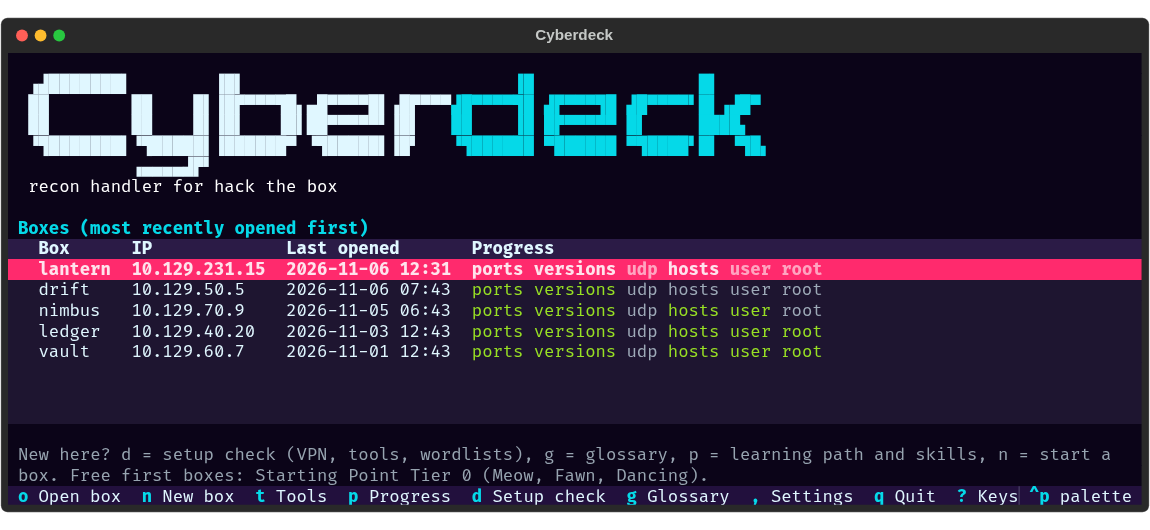
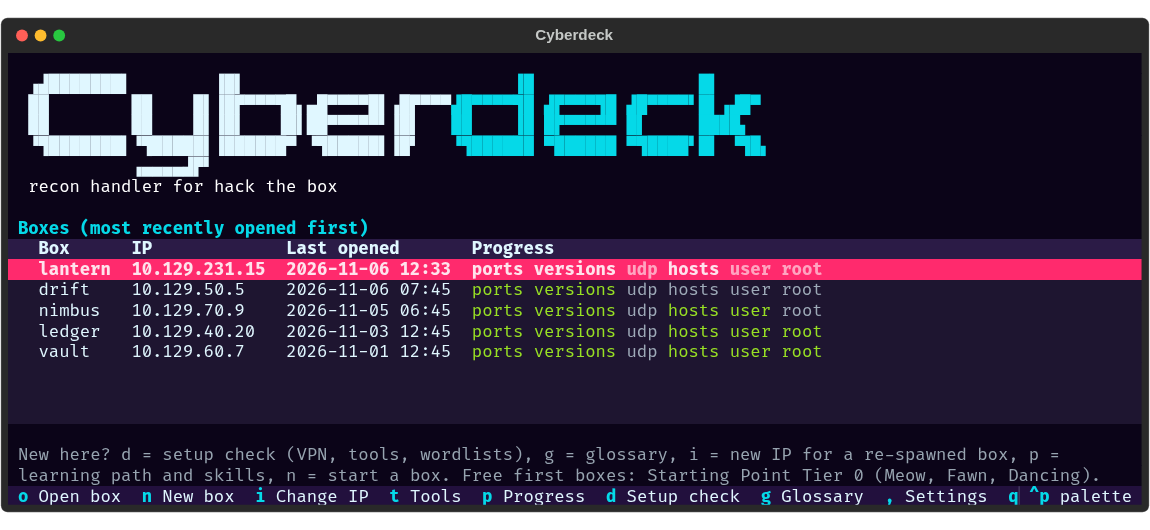
Box list: i changes a box's IP (HTB re-spawn), offers to move its hosts line
Scope-checked via services.set_ip, noted in notes.md, findings kept. If the
box has a tagged /etc/hosts line, opens the box and runs the usual hosts
flow (diff, confirm, sudo). README, docs/UI.md and tests updated.

Source-Commit: 5020ff499f2519ac6bfe21423267c33271aadc49

Changed region(s): [[0.0, 0.8453, 0.9739, 0.966]]

diff --git a/src/cyberdeck/ui/tui/menu.py b/src/cyberdeck/ui/tui/menu.py
@@ -19,7 +19,7 @@ from cyberdeck.core.scope import ScopeError
 from cyberdeck.core.userconfig import load_user_config
 from cyberdeck.core.workspace import Workspace, WorkspaceError
 from cyberdeck.ui.banner import logo_markup
-from cyberdeck.ui.tui.modals import ConfirmModal
+from cyberdeck.ui.tui.modals import ConfirmModal, InputModal
 
 _SHORT = ["ports", "versions", "udp", "hosts", "user", "root"]
 
@@ -81,6 +81,7 @@ class MenuScreen(Screen[None]):
     BINDINGS = [
         Binding("enter,o", "open", "Open box"),
         Binding("n", "new", "New box"),
+        Binding("i", "set_ip", "Change IP"),
         Binding("t", "tools", "Tools"),
         Binding("p", "progress", "Progress"),
         Binding("d", "app.setup_check", "Setup check"),
@@ -109,6 +110,7 @@ class MenuScreen(Screen[None]):
         yield Static(
             Text(
                 "New here? d = setup check (VPN, tools, wordlists), g = glossary, "
+                "i = new IP for a re-spawned box, "
                 "p = learning path and skills, n = start a box. Free first boxes: Starting "
                 "Point Tier 0 (Meow, Fawn, Dancing).",
                 style="dim",
@@ -163,15 +165,23 @@ class MenuScreen(Screen[None]):
     def _selected(self) -> None:
         self.action_open()
 
-    def action_open(self) -> None:
+    def _highlighted(self) -> Workspace | None:
         table: DataTable[Any] = self.query_one("#boxes", DataTable)
         if not table.row_count:
+            return None
+        key = str(table.coordinate_to_cell_key(table.cursor_coordinate).row_key.value)
+        return self._boxes[key]
+
+    def action_open(self) -> None:
+        ws = self._highlighted()
+        if ws is None:
             self.action_new()
             return
-        key = str(table.coordinate_to_cell_key(table.cursor_coordinate).row_key.value)
-        self.open_box(self._boxes[key])
+        self.open_box(ws)
 
-    def open_box(self, ws: Workspace, *, offer_scan: bool = False) -> None:
+    def open_box(
+        self, ws: Workspace, *, offer_scan: bool = False, move_hosts: bool = False
+    ) -> None:
         from cyberdeck.ui.tui.dashboard import DashboardScreen
 
         opened = services.open_target(self.settings, str(ws.path))
@@ -180,6 +190,45 @@ class MenuScreen(Screen[None]):
         self.app.push_screen(dashboard)
         if offer_scan:
             dashboard.call_after_refresh(dashboard.action_scan)
+        if move_hosts:
+            dashboard.call_after_refresh(dashboard.action_hosts)
+
+    @work
+    async def action_set_ip(self) -> None:
+        """HTB gives a re-spawned box a new IP: update it here, keep everything else."""
+        ws = self._highlighted()
+        if ws is None:
+            self.notify("No boxes yet: n = new box", severity="warning")
+            return
+        answer = await self.app.push_screen_wait(
+            InputModal(f"New IP for {ws.meta.name} (it was {ws.meta.ip})", ws.meta.ip)
+        )
+        if answer is None or answer.strip() in ("", ws.meta.ip):
+            return
+        try:
+            old = services.set_ip(self.settings, ws, answer.strip())
+        except ScopeError as exc:
+            self.notify(str(exc), severity="error")
+            return
+        self.refresh_boxes()
+        self.notify(
+            f"{ws.meta.name}: {old} -> {ws.meta.ip}. Findings are kept; re-scan (c) to check "
+            "nothing else changed."
+        )
+        lines, _ = services.hosts_status(ws, self.settings)
+        if not lines:
+            return
+        move = await self.app.push_screen_wait(
+            ConfirmModal(
+                f"Move {ws.meta.name}'s hosts file line to {ws.meta.ip}?",
+                f"{self.settings.hosts_file} still points the box's names at {old}. This opens "
+                "the box and shows the exact change first (needs sudo).",
+                yes="Move it",
+                no="Later (h on the dashboard)",
+            )
+        )
+        if move:
+            self.open_box(ws, move_hosts=True)
 
     def action_progress(self) -> None:
         from cyberdeck.ui.tui.journal import ProgressScreen

diff --git a/tests/test_tui.py b/tests/test_tui.py
@@ -33,7 +33,7 @@ from cyberdeck.ui.tui.dashboard import DashboardScreen
 from cyberdeck.ui.tui.jobs import JobScreen
 from cyberdeck.ui.tui.loot import LootScreen
 from cyberdeck.ui.tui.menu import MenuScreen
-from cyberdeck.ui.tui.modals import HostsModal, InputModal
+from cyberdeck.ui.tui.modals import ConfirmModal, HostsModal, InputModal
 from cyberdeck.ui.tui.notes import NotesScreen
 from cyberdeck.ui.tui.run_dialog import RunDialog
 from cyberdeck.ui.tui.tools import ToolsScreen
@@ -331,6 +331,65 @@ async def test_notes_editor_saves(lantern: Workspace, settings: Settings) -> Non
         await pilot.pause()
         assert isinstance(app.screen, DashboardScreen)
     assert "creds in backup.zip" in services.read_notes(lantern)
+
+
+async def test_menu_changes_a_box_ip(lantern: Workspace, settings: Settings) -> None:
+    app = CyberdeckApp(settings)
+    async with app.run_test(size=SIZE) as pilot:
+        await pilot.pause()
+        assert isinstance(app.screen, MenuScreen)
+        await pilot.press("i")
+        await pilot.pause()
+        modal = app.screen
+        assert isinstance(modal, InputModal)
+        assert modal.query_one(Input).value == IP  # the current IP, ready to edit
+        modal.query_one(Input).value = "10.129.231.99"
+        await pilot.press("enter")
+        await pilot.pause()
+        assert isinstance(app.screen, MenuScreen)  # no hosts line: nothing to move
+        table: DataTable[Any] = app.screen.query_one("#boxes", DataTable)
+        assert "10.129.231.99" in [str(c) for c in table.get_row_at(0)]
+    reopened = Workspace.open(lantern.path)
+    assert reopened.meta.ip == "10.129.231.99"
+    assert "IP changed 10.129.231.15 -> 10.129.231.99" in reopened.notes_file.read_text()
+    assert services.list_findings(reopened)  # findings kept
+
+
+async def test_menu_ip_change_refuses_out_of_scope(lantern: Workspace, settings: Settings) -> None:
+    app = CyberdeckApp(settings)
+    async with app.run_test(size=SIZE) as pilot:
+        await pilot.pause()
+        await pilot.press("i")
+        await pilot.pause()
+        app.screen.query_one(Input).value = "8.8.8.8"
+        await pilot.press("enter")
+        await pilot.pause()
+        assert isinstance(app.screen, MenuScreen)
+    assert Workspace.open(lantern.path).meta.ip == IP
+
+
+async def test_menu_ip_change_moves_the_hosts_line(lantern: Workspace, settings: Settings) -> None:
+    services.hosts_apply(
+        services.hosts_plan_add(lantern, ["lantern.htb"], settings), lantern, settings
+    )
+    app = CyberdeckApp(settings)
+    async with app.run_test(size=SIZE) as pilot:
+        await pilot.pause()
+        await pilot.press("i")
+        await pilot.pause()
+        app.screen.query_one(Input).value = "10.129.231.99"
+        await pilot.press("enter")
+        await pilot.pause()
+        assert isinstance(app.screen, ConfirmModal)  # offer to move the hosts line
+        await pilot.press("y")
+        await pilot.pause()
+        await pilot.pause()
+        assert isinstance(app.screen, HostsModal)  # the box opened, the diff is shown
+        await pilot.click("#yes")
+        await pilot.pause()
+        await pilot.pause()
+        assert isinstance(app.screen, DashboardScreen)
+    assert hostsfile.resolves_to(settings.hosts_file, "lantern.htb", "10.129.231.99")
 
 
 async def test_writeup_screen_shows_and_edits_existing_file(

diff --git a/README.md b/README.md
@@ -99,7 +99,9 @@ cyberdeck                         # open the TUI
 ```
 
 Cyberdeck opens on your box list: every box with its IP, when you last worked on it, and how
-far you got (ports, versions, UDP, hosts file, user and root flags).
+far you got (ports, versions, UDP, hosts file, user and root flags). HTB gives a box a new
+IP when it's re-spawned: highlight it and press `i` to change it. Everything you found is
+kept, and Cyberdeck offers to move the box's `/etc/hosts` line too.
 
 <div align="center">
 
